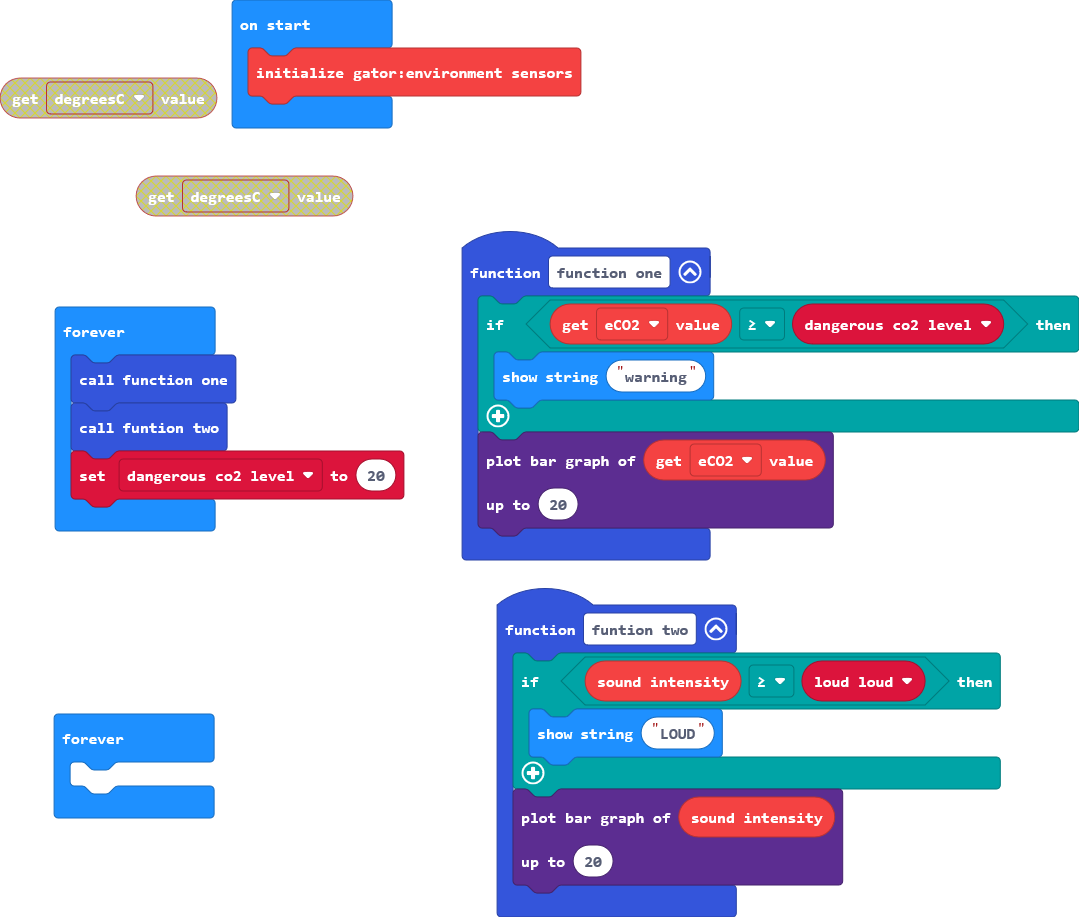
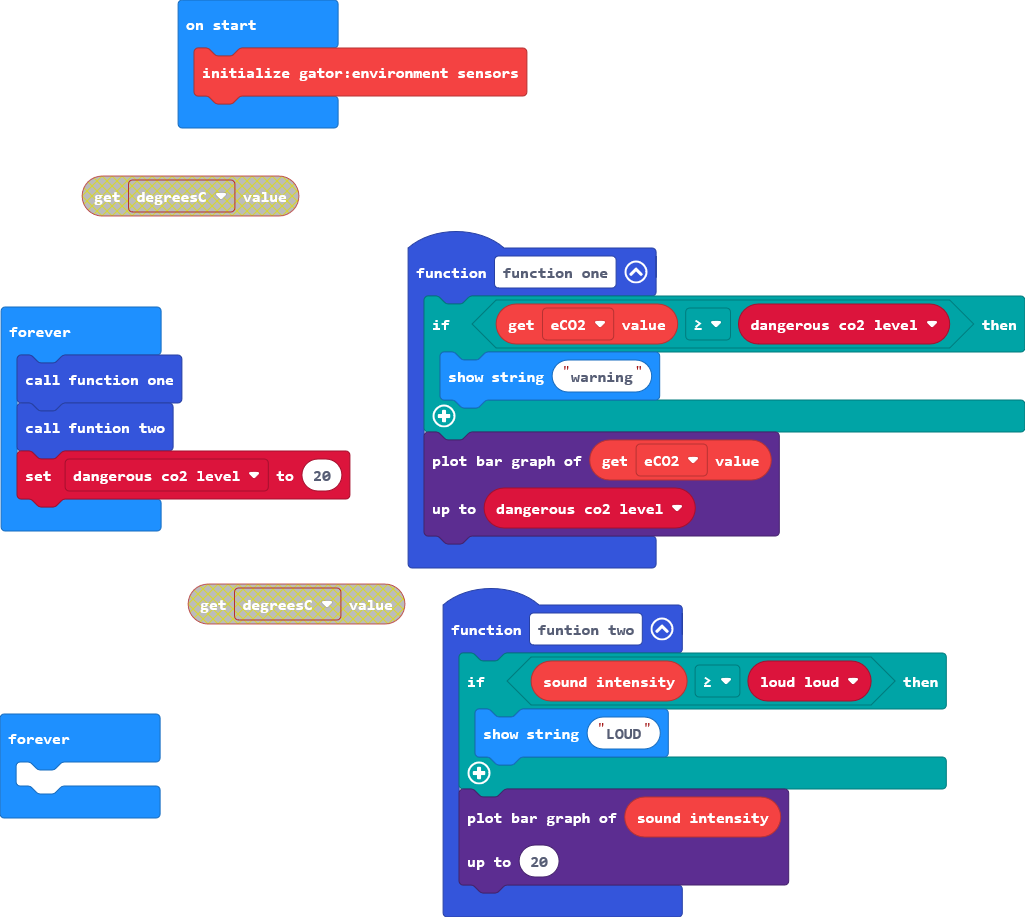
Update main.blocks, main.ts

diff --git a/main.ts b/main.ts
@@ -14,7 +14,7 @@ function function_one () {
     }
     led.plotBarGraph(
     gatorEnvironment.getMeasurement(measurementType.eCO2),
-    20
+    dangerous_co2_level
     )
 }
 let dangerous_co2_level = 0
